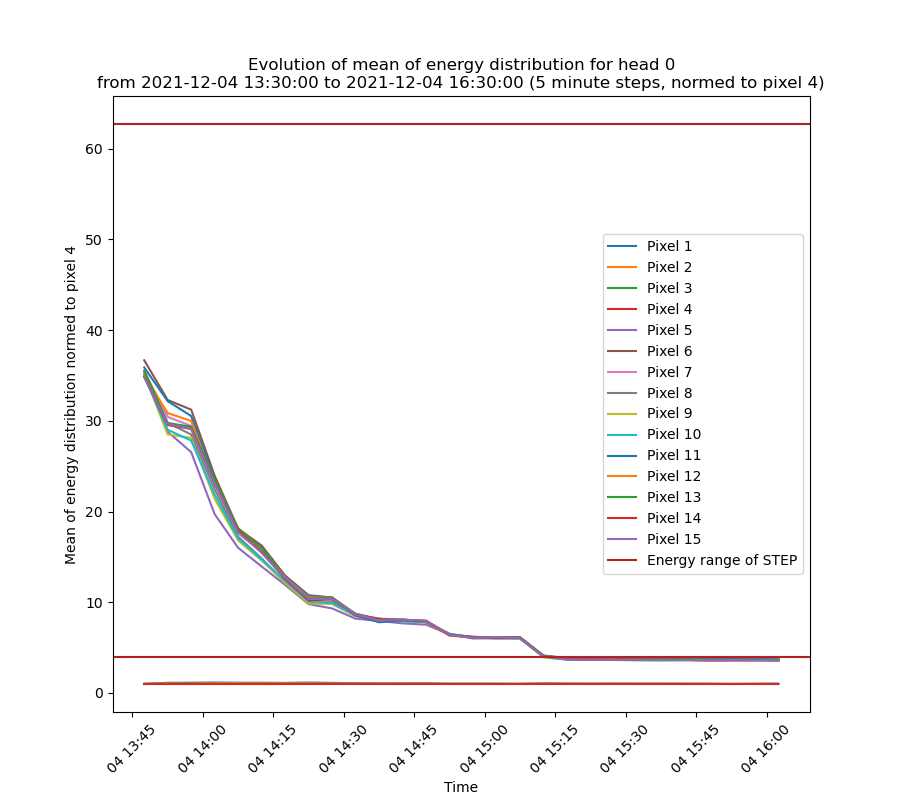
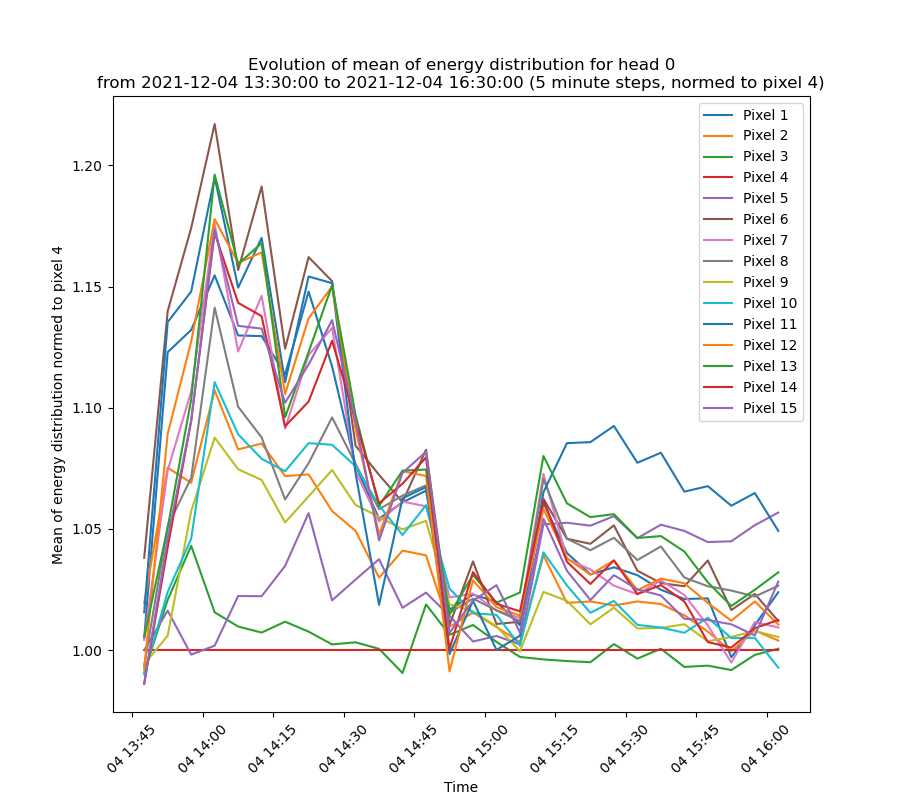
Ich muss Datenauswahl noch anpassen,um Masken zu nutzen...

diff --git a/analyze_nom_II.py b/analyze_nom_II.py
@@ -453,12 +453,14 @@ class STEP:
                 pixel_means[k].append(mean)
             i +=1
             
+        fig = plt.figure(figsize=(9,8))            
         if norm_pixel != None:
             # Normierung
+            norm_factor = np.array(pixel_means[norm_pixel])   # ist tatsächlich ein array
             for k in pixel_list:
-                pixel_means[k] = np.array(pixel_means[k])/np.array(pixel_means[norm_pixel])
+                pixel_means[k] = np.array(pixel_means[k])/norm_factor
+                plt.plot(pixel_means[0],pixel_means[k],label='Pixel ' + str(k))
         
-        fig = plt.figure(figsize=(9,8))
         if norm_pixel != None:
             plt.title('Evolution of mean of energy distribution for head ' + str(head) + '\nfrom ' + str(period[0]) + ' to ' + str(period[1]) + ' (' + str(window_width) + ' minute steps, normed to pixel ' + str(norm_pixel) + ')')
         else:
@@ -469,12 +471,9 @@ class STEP:
         else:
             plt.ylabel('Mean of energy distribution [keV]')
             plt.yscale('log')
+            plt.axhline(ebins[8],color='firebrick')
+            plt.axhline(ebins[40],color='firebrick', label='Energy range of STEP')
         plt.tick_params(axis='x',labelrotation=45)
-        
-        for i in pixel_list:
-            plt.plot(pixel_means[0],pixel_means[i],label='Pixel ' + str(i))
-        plt.axhline(ebins[8],color='firebrick')
-        plt.axhline(ebins[40],color='firebrick', label='Energy range of STEP')
             
         plt.legend()
             
@@ -488,9 +487,9 @@ class STEP:
 
     def evolution_energy_means_ts(self, filename, head, norm, save, period, box_list, pixel_list, norm_pixel,close=False):
         '''Kombiniere Plots der Zeitreihe und der Energiemittelwerte für bestimmte Boxen. filename gilt für den Mittelwertsplot.'''
-        self.evolution_energy_means_pixels(filename=filename,norm=norm,save=save,period=period,box_list=box_list)
-        if close:
-            plt.close('all')
+        # self.evolution_energy_means_pixels(filename=filename,norm=norm,save=save,period=period,box_list=box_list)
+        # if close:
+        #     plt.close('all')
         self.evolution_energy_means_combined(filename=filename,norm=norm,pixel_list=pixel_list,save=save,period=period,box_list=box_list,norm_pixel=norm_pixel)
         if close:
             plt.close('all')

diff --git a/analyze_data.py b/analyze_data.py
@@ -11,7 +11,7 @@ dat = STEP(2021,12,4)
 
 box_list = [[[15,35],[30,38]],[[20,45],[25,30]],[[26,80],[20,25]],[[30,120],[15,20]],[[40,155],[10,15]],[[50,170],[3,10]]]
 box_list_2 = [[[15,35],[30,35]],[[20,45],[25,30]],[[30,60],[20,25]],[[30,80],[15,20]],[[50,100],[10,15]],[[100,150],[3,10]]]
-pixel_list = [i for i in range(1,16)]
+pixel_list = [i for i in range(1,16)] # [4,9,14] 
 
 # dat.marginal_distribution(pixel=4,norm='tmax',save='analyze/')
 # dat.marginal_distribution(pixel=4,norm='tmax',save='analyze/',period=[dt.datetime(2021,12,4,13,30),dt.datetime(2021,12,4,16,30)],fit=True)
